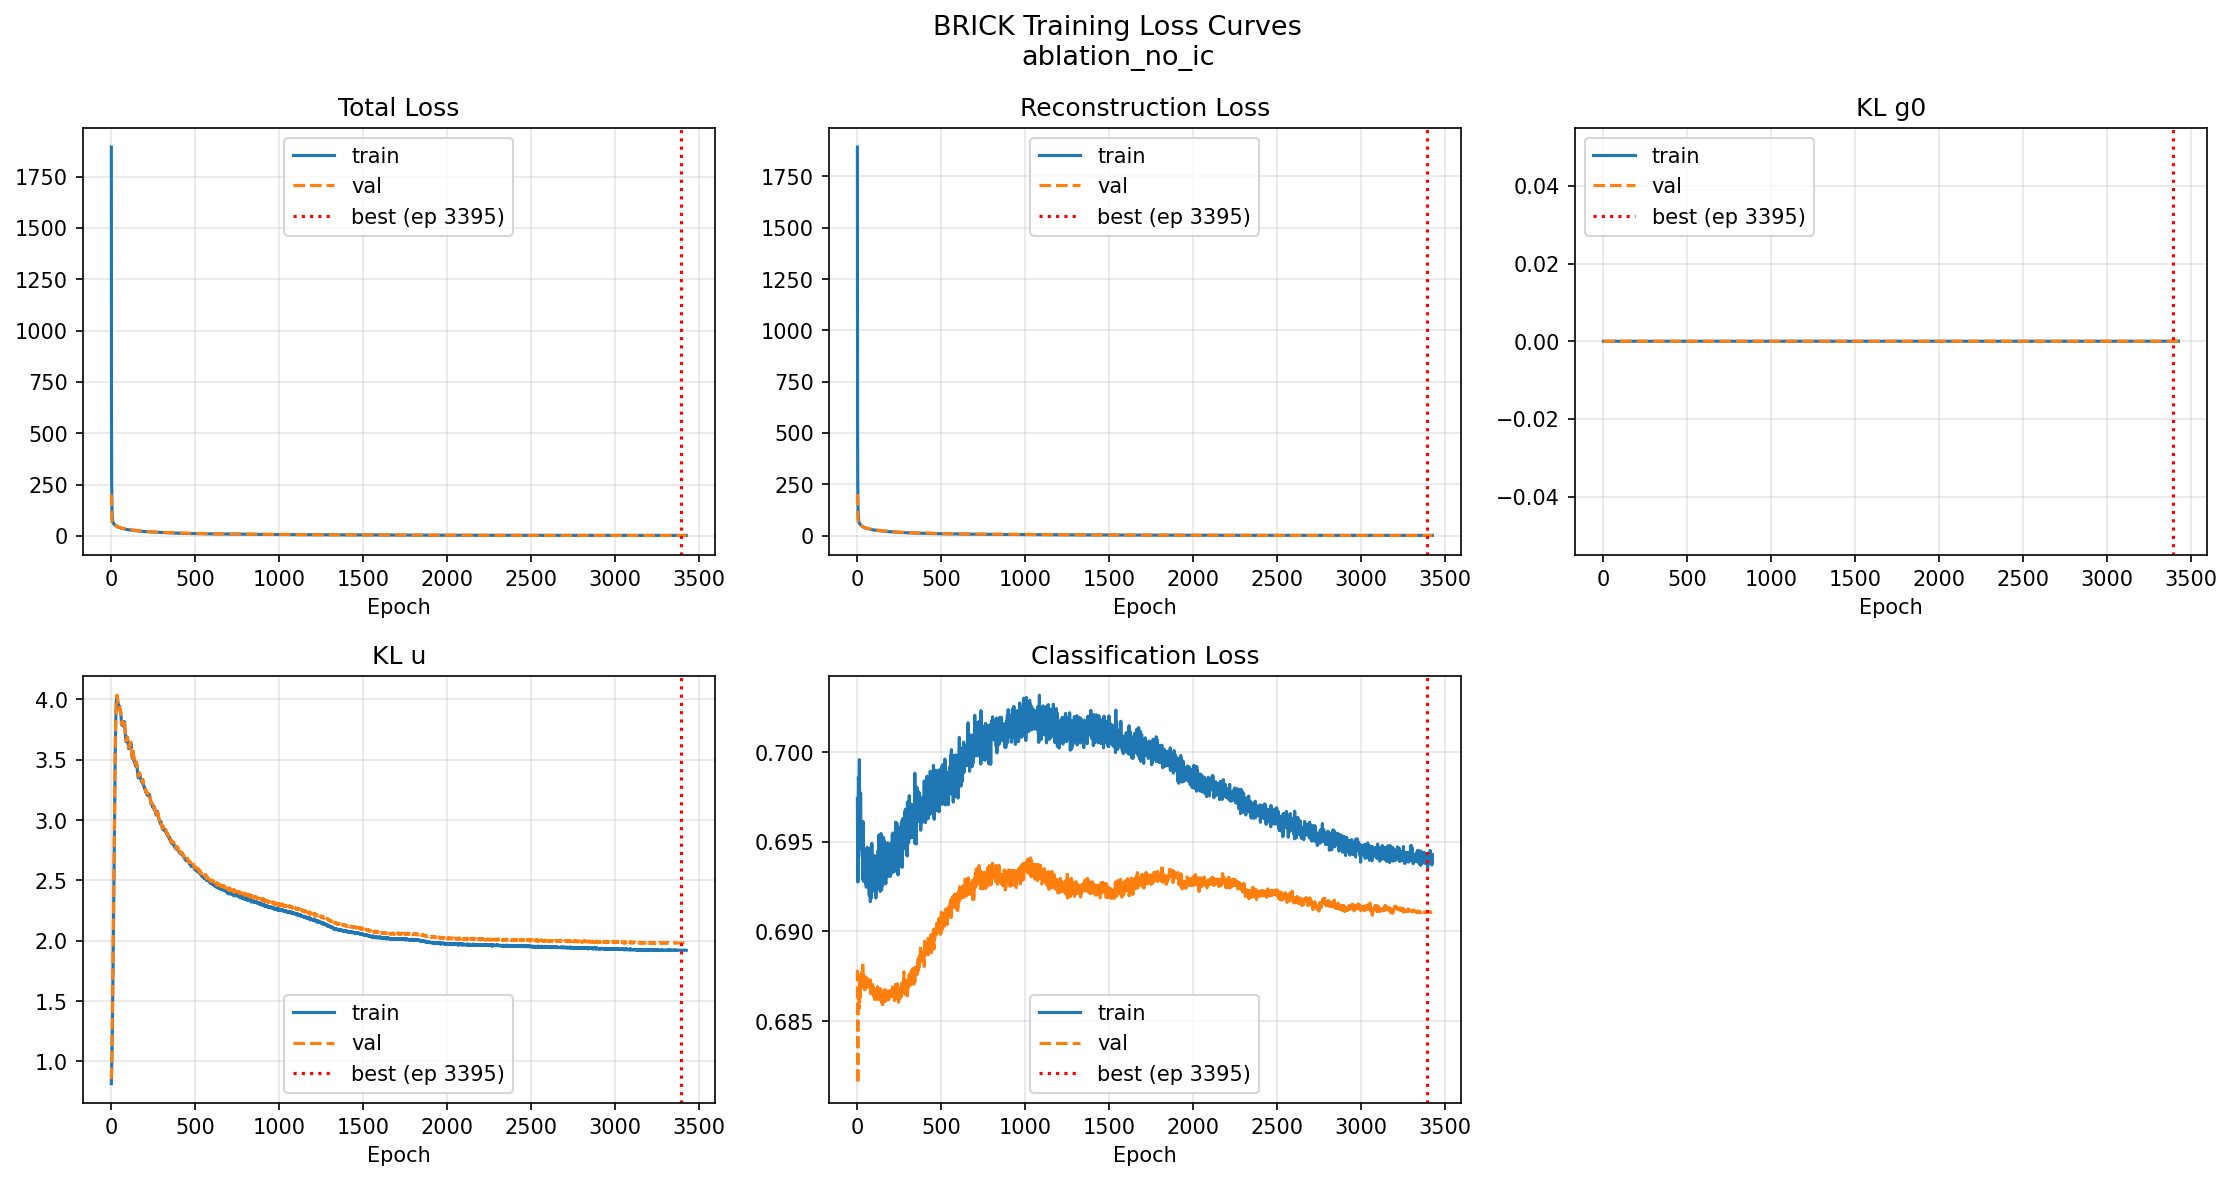
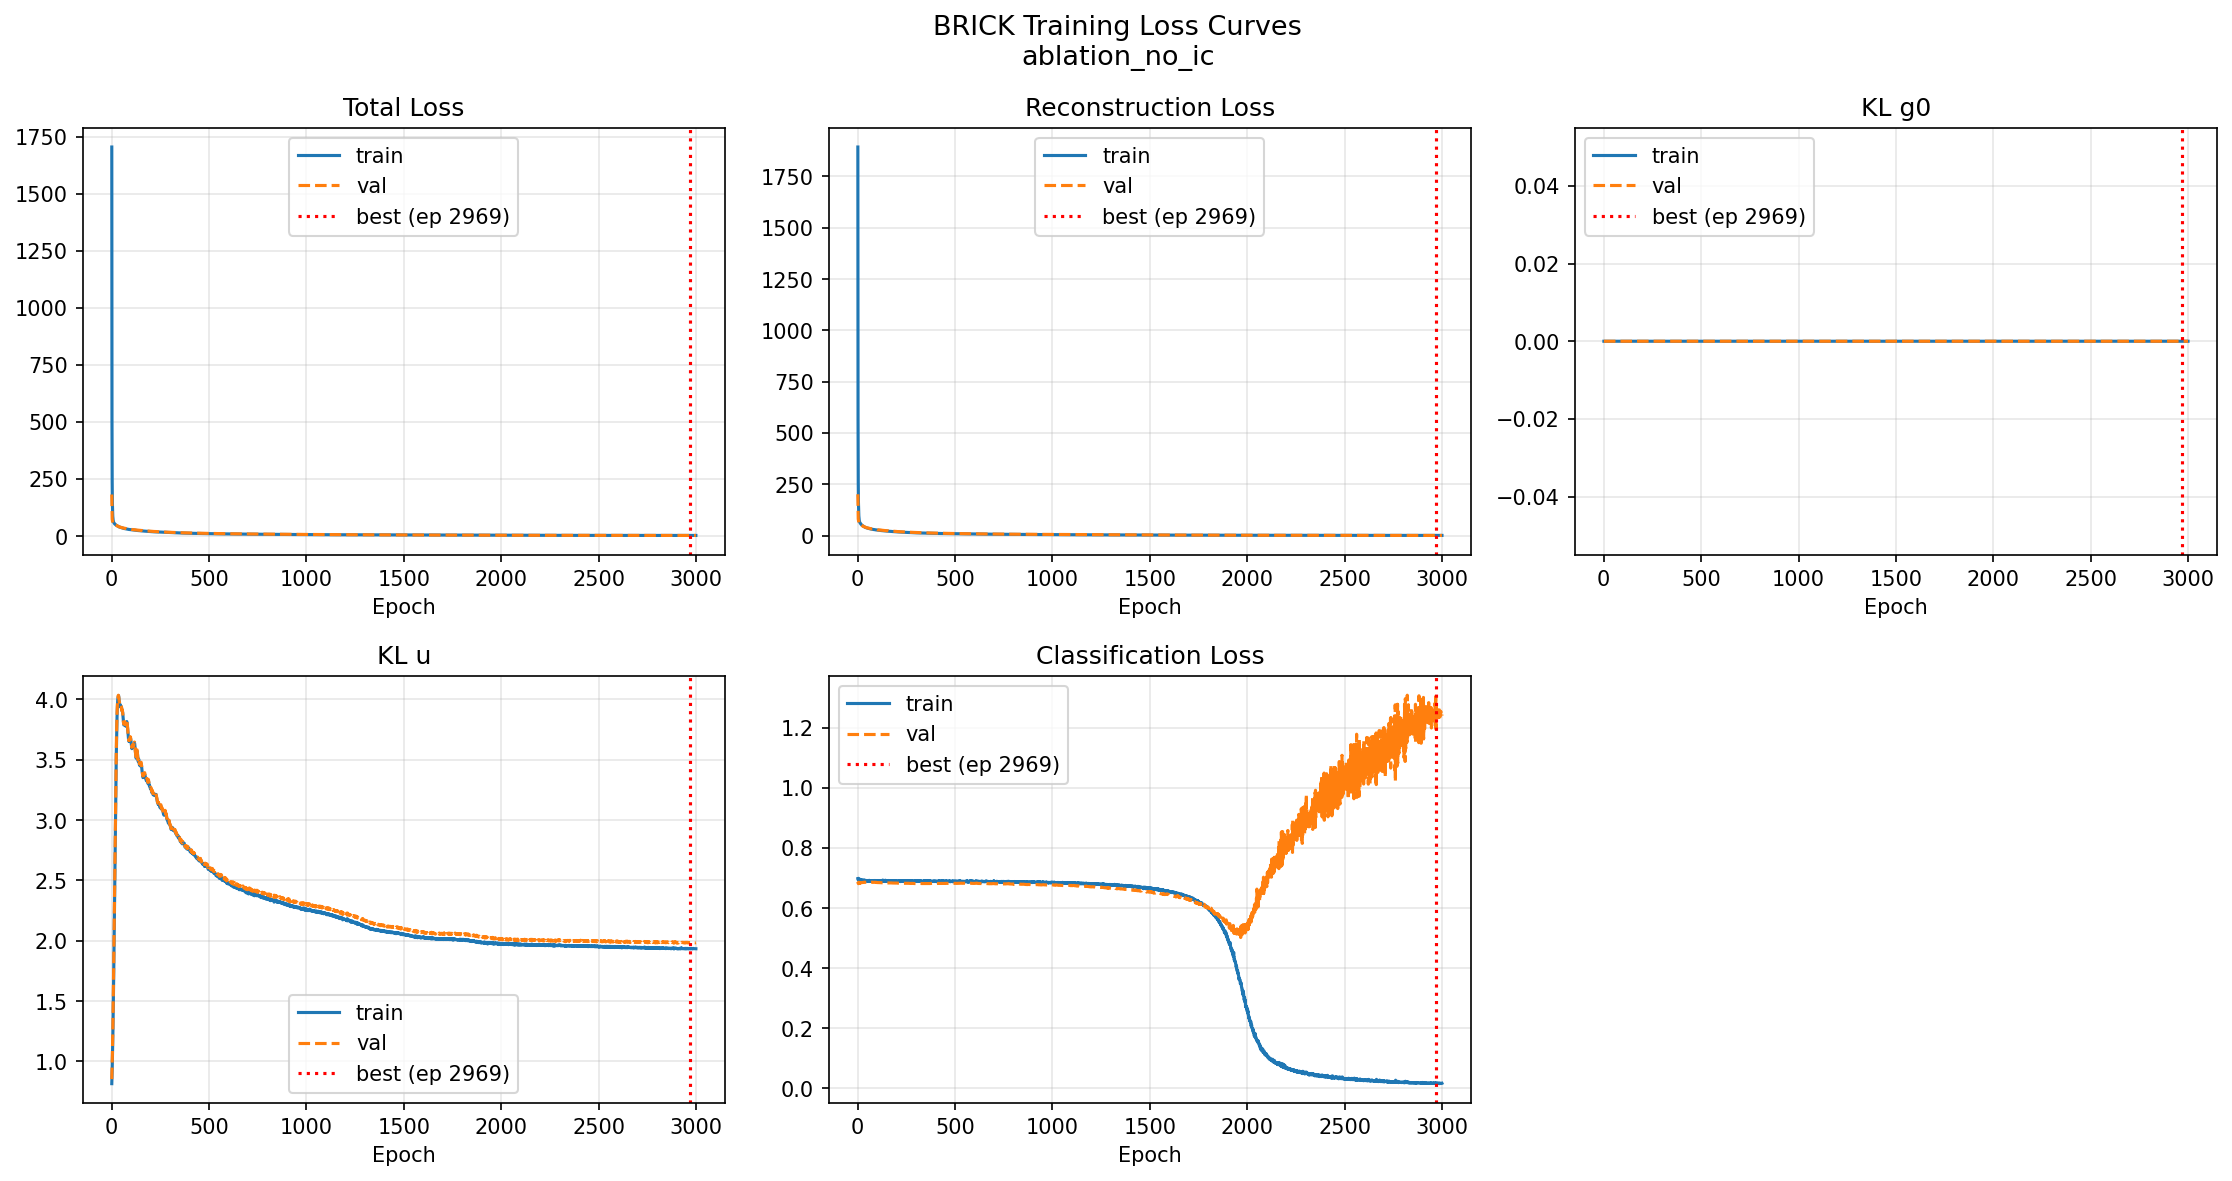
Same as prev.

diff --git a/models/brick.py b/models/brick.py
@@ -311,10 +311,9 @@ class BRICK(nn.Module):
             dict: loss_total, loss_recon, loss_kl_g0, loss_kl_u, loss_cls
         """
         T, N = x.shape
-        norm = T * N  # global normalizer — same denominator as F.mse_loss
 
         # --- Reconstruction ---
-        recon_sq = (x - x_recon).pow(2).sum() / norm
+        recon_sq = (x - x_recon).pow(2).sum() / (T*N)
         loss_recon = 0.5 / self.lambda_noise * recon_sq
 
         # --- KL(g_0): KL(N(mu, sigma^2) || N(0, epsilon*I)) ---
@@ -328,7 +327,7 @@ class BRICK(nn.Module):
             )
             if apply_free_bits:
                 kl_g0_per_dim = torch.clamp(kl_g0_per_dim, min=self.free_bits_g0)
-            loss_kl_g0 = kl_g0_per_dim.sum() / norm
+            loss_kl_g0 = kl_g0_per_dim.sum() / M
         else:
             loss_kl_g0 = torch.zeros((), device=x.device)
 
@@ -346,7 +345,7 @@ class BRICK(nn.Module):
             )
             if apply_free_bits:
                 kl_u_per_dim = torch.clamp(kl_u_per_dim, min=self.free_bits)
-            loss_kl_u = kl_u_per_dim.sum() / (T*N)  #Normalize to T*N since u is a sequence per observation)
+            loss_kl_u = kl_u_per_dim.sum() / (T*M)  #Normalize to T*N since u is a sequence per observation)
         else:
             loss_kl_u = torch.zeros((), device=x.device)
 

diff --git a/config.py b/config.py
@@ -20,7 +20,7 @@ NHEAD = 4
 NUM_LAYERS = 4
 
 #Brick implementation
-BETA = 0            # loss balance: β * L_cls + (1-β) * L_ELBO
+BETA = 0.1            # loss balance: β * L_cls + (1-β) * L_ELBO
 NUM_CLASSES = 2         # number of task states for classifier (pre- vs post- sonication)
 EPSILON = 1.0           # prior variance for g_0 ~ N(0, εI)
 LAMBDA_NOISE = 0.01     # noise scaling. 0.01 is ideal